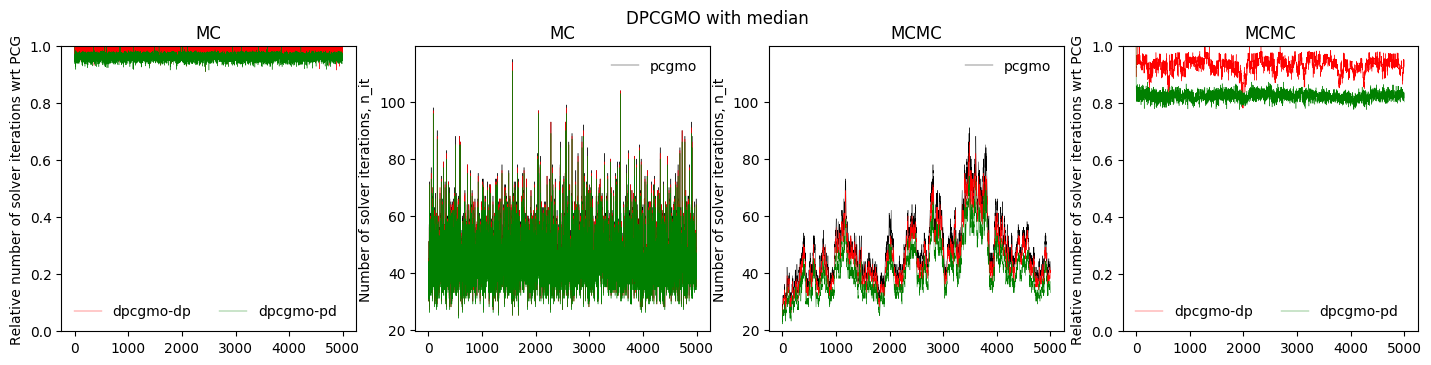
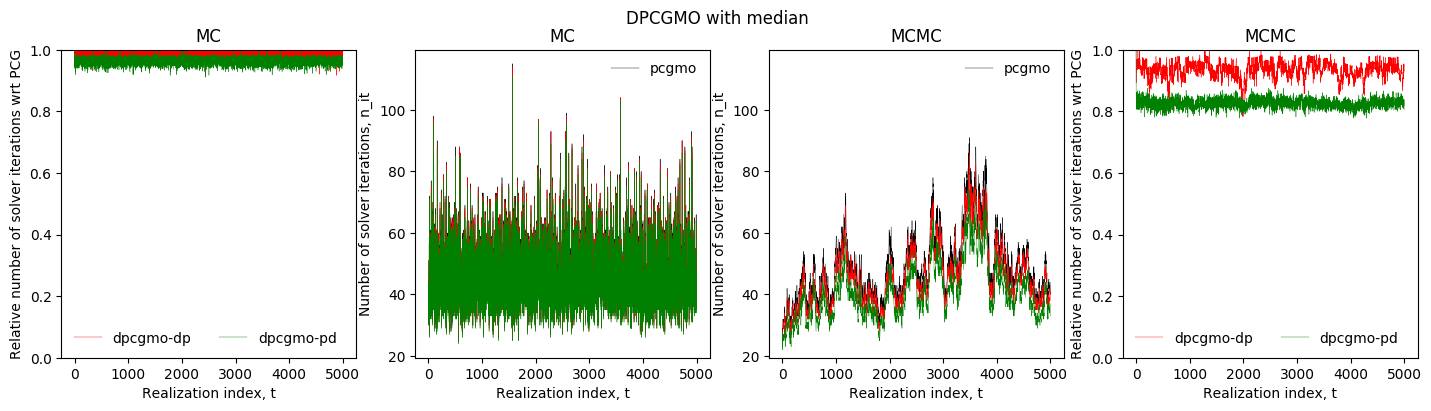
first-commit

diff --git a/examples/example06_recycler.py b/examples/example06_recycler.py
@@ -13,6 +13,7 @@ sig2, L = .357, 0.05
 model = "Exp"
 
 kl = 20
+case = "a" # {"a", "b"}
 
 smp, dpcg, dpcgmo = {}, {}, {}
 
@@ -24,14 +25,18 @@ for _smp in ("mc", "mcmc"):
   smp[_smp] = __smp
 
 pcg = solver(n=smp["mc"].n, solver_type="pcg")
-#pcg.set_precond(Mat=smp["mc"].get_median_A(), precond_id=3, nb=10)
-pcg.set_precond(Mat=smp["mc"].get_median_A(), precond_id=1)
+if (case == "a"):
+  pcg.set_precond(Mat=smp["mc"].get_median_A(), precond_id=3, nb=10)
+elif (case == "b"):
+  pcg.set_precond(Mat=smp["mc"].get_median_A(), precond_id=1)
 
 for __smp in ("mc", "mcmc"):
   for dp_seq in ("dp", "pd"):
       __dpcg = solver(n=smp["mc"].n, solver_type="dpcg")
-      #__dpcg.set_precond(Mat=smp["mc"].get_median_A(), precond_id=3, nb=10)
-      __dpcg.set_precond(Mat=smp["mc"].get_median_A(), precond_id=1)
+      if (case == "a"):
+        __dpcg.set_precond(Mat=smp["mc"].get_median_A(), precond_id=3, nb=10)
+      elif (case == "b"):
+        __dpcg.set_precond(Mat=smp["mc"].get_median_A(), precond_id=1)
       dpcg[(__smp, dp_seq)] = __dpcg
       dpcgmo[(__smp, dp_seq)] = recycler(smp[__smp], __dpcg, "dpcgmo", kl=kl, dp_seq=dp_seq)
 
@@ -77,51 +82,36 @@ while (smp["mcmc"].cnt_accepted_proposals < nsmp):
 
     print("%d/%d" %(smp["mcmc"].cnt_accepted_proposals+1, nsmp))
 
-fig, ax = pl.subplots(1, 2, figsize=(8.5,3.7), sharey=True)
+lw = 0.3
+fig, ax = pl.subplots(1, 4, figsize=(17.5,4.))
 ax[0].set_title("MC")
-ax[0].plot(pcgmo_it["mc"], lw=0.5, label="pcgmo")
-ax[0].plot(dpcgmo_it[("mc", "dp")], "-+", markersize=mrksize, label="dpcgmo-dp")
-ax[0].plot(dpcgmo_it[("mc", "pd")], lw=0.5, label="dpcgmo-pd")
-ax[1].set_title("MCMC")
-ax[1].plot(pcgmo_it["mcmc"], lw=0.5, label="pcgmo")
-ax[1].plot(dpcgmo_it[("mcmc", "dp")], "-+", markersize=mrksize, label="dpcgmo-dp")
-ax[1].plot(dpcgmo_it[("mcmc", "pd")], lw=0.5, label="dpcgmo-pd")
-ax[0].set_ylabel("Number of solver iterations, n_it")
-ax[0].set_xlabel("Realization index, t"); ax[1].set_xlabel("Realization index, t")
-#fig.suptitle("DPCGMO with median-bJ10")
-fig.suptitle("DPCGMO with median")
-ax[0].legend(frameon=False, ncol=2); ax[1].legend(frameon=False, ncol=2)
-#pl.show()
-#pl.savefig(figures_path+"example06_recycler_a.png", bbox_inches='tight')
-pl.savefig(figures_path+"example06_recycler_b.png", bbox_inches='tight')
-
-
-mrkr, mrksize = ".", 0.2
-fig, ax = pl.subplots(1, 4, figsize=(16,3.7))
-ax[0].set_title("MC")
-ax[0].plot(np.array(dpcgmo_it[("mc", "dp")])/np.array(pcgmo_it["mc"], dtype=float), "r"+mrkr, markersize=mrksize, label="dpcgmo-dp")
-ax[0].plot(np.array(dpcgmo_it[("mc", "pd")])/np.array(pcgmo_it["mc"], dtype=float), "g"+mrkr, markersize=mrksize, label="dpcgmo-pd")
+ax[0].plot(np.array(dpcgmo_it[("mc", "dp")])/np.array(pcgmo_it["mc"], dtype=float), "r", lw=lw, label="dpcgmo-dp")
+ax[0].plot(np.array(dpcgmo_it[("mc", "pd")])/np.array(pcgmo_it["mc"], dtype=float), "g", lw=lw, label="dpcgmo-pd")
 ax[1].set_title("MC")
-ax[1].plot(pcgmo_it["mc"], "k"+mrkr, markersize=mrksize, label="pcgmo")
-ax[1].plot(dpcgmo_it[("mc", "dp")], "r"+mrkr, markersize=mrksize)
-ax[1].plot(dpcgmo_it[("mc", "pd")], "g"+mrkr, markersize=mrksize)
+ax[1].plot(pcgmo_it["mc"], "k", lw=lw, label="pcgmo")
+ax[1].plot(dpcgmo_it[("mc", "dp")], "r", lw=lw)
+ax[1].plot(dpcgmo_it[("mc", "pd")], "g", lw=lw)
 ax[2].set_title("MCMC")
-ax[2].plot(pcgmo_it["mcmc"], "k"+mrkr, markersize=mrksize, label="pcgmo")
-ax[2].plot(dpcgmo_it[("mcmc", "dp")], "r"+mrkr, markersize=mrksize)
-ax[2].plot(dpcgmo_it[("mcmc", "pd")], "g"+mrkr, markersize=mrksize)
+ax[2].plot(pcgmo_it["mcmc"], "k", lw=lw, label="pcgmo")
+ax[2].plot(dpcgmo_it[("mcmc", "dp")], "r", lw=lw)
+ax[2].plot(dpcgmo_it[("mcmc", "pd")], "g", lw=lw)
 ax[3].set_title("MCMC")
-ax[3].plot(np.array(dpcgmo_it[("mcmc", "dp")])/np.array(pcgmo_it["mcmc"], dtype=float), "r"+mrkr, markersize=mrksize, label="dpcgmo-dp")
-ax[3].plot(np.array(dpcgmo_it[("mcmc", "pd")])/np.array(pcgmo_it["mcmc"], dtype=float), "g"+mrkr, markersize=mrksize, label="dpcgmo-pd")
+ax[3].plot(np.array(dpcgmo_it[("mcmc", "dp")])/np.array(pcgmo_it["mcmc"], dtype=float), "r", lw=lw, label="dpcgmo-dp")
+ax[3].plot(np.array(dpcgmo_it[("mcmc", "pd")])/np.array(pcgmo_it["mcmc"], dtype=float), "g", lw=lw, label="dpcgmo-pd")
 ax[0].set_ylim(0, 1); ax[3].set_ylim(0, 1)
 ax[2].set_ylim(ax[1].get_ylim())
 ax[0].set_ylabel("Relative number of solver iterations wrt PCG")
 ax[1].set_ylabel("Number of solver iterations, n_it")
 ax[2].set_ylabel("Number of solver iterations, n_it")
 ax[3].set_ylabel("Relative number of solver iterations wrt PCG")
-#fig.suptitle("DPCGMO with median-bJ10")
-fig.suptitle("DPCGMO with median")
+if (case == "a"):
+  fig.suptitle("DPCGMO with median-bJ10")
+elif (case == "b"):
+  fig.suptitle("DPCGMO with median")
 ax[0].legend(frameon=False, ncol=2); ax[1].legend(frameon=False)
 ax[2].legend(frameon=False); ax[3].legend(frameon=False, ncol=2)
 #pl.show()
-#pl.savefig(figures_path+"example06_recycler_a.png", bbox_inches='tight')
-pl.savefig(figures_path+"example06_recycler_b.png", bbox_inches='tight')
+if (case == "a"):
+  pl.savefig(figures_path+"example06_recycler_a.png", bbox_inches='tight')
+if (case == "b"):
+  pl.savefig(figures_path+"example06_recycler_b.png", bbox_inches='tight')

diff --git a/README.tex.md b/README.tex.md
@@ -533,18 +533,13 @@ Output :
 Solves the sequence $\{u(x;\theta_t)\}_{t=1}^M$ by DPCGMO for sequences $\{\kappa(x;\theta_t)\}_{t=1}^M$ sampled by MC and by MCMC. In both cases, a constant bJ preconditioner is used based on the median operator with 10 blocks. The effect of `dp_seq` is investigated on the number of solver iterations.
 
 ```python
-from samplers import sampler
-from solvers import solver
-from recyclers import recycler
-import pylab as pl
-import numpy as np
-
 nEl = 1000
-nsmp = 100
+nsmp = 5000
 sig2, L = .357, 0.05
 model = "Exp"
 
 kl = 20
+case = "a" # {"a", "b"}
 
 smp, dpcg, dpcgmo = {}, {}, {}
 
@@ -556,12 +551,18 @@ for _smp in ("mc", "mcmc"):
   smp[_smp] = __smp
 
 pcg = solver(n=smp["mc"].n, solver_type="pcg")
-pcg.set_precond(Mat=smp["mc"].get_median_A(), precond_id=3, nb=10)
+if (case == "a"):
+  pcg.set_precond(Mat=smp["mc"].get_median_A(), precond_id=3, nb=10)
+elif (case == "b"):
+  pcg.set_precond(Mat=smp["mc"].get_median_A(), precond_id=1)
 
 for __smp in ("mc", "mcmc"):
   for dp_seq in ("dp", "pd"):
       __dpcg = solver(n=smp["mc"].n, solver_type="dpcg")
-      __dpcg.set_precond(Mat=smp["mc"].get_median_A(), precond_id=3, nb=10)
+      if (case == "a"):
+        __dpcg.set_precond(Mat=smp["mc"].get_median_A(), precond_id=3, nb=10)
+      elif (case == "b"):
+        __dpcg.set_precond(Mat=smp["mc"].get_median_A(), precond_id=1)
       dpcg[(__smp, dp_seq)] = __dpcg
       dpcgmo[(__smp, dp_seq)] = recycler(smp[__smp], __dpcg, "dpcgmo", kl=kl, dp_seq=dp_seq)
 
@@ -607,19 +608,34 @@ while (smp["mcmc"].cnt_accepted_proposals < nsmp):
 
     print("%d/%d" %(smp["mcmc"].cnt_accepted_proposals+1, nsmp))
 
-fig, ax = pl.subplots(1, 2, figsize=(8.5,3.7), sharey=True)
+lw = 0.3
+fig, ax = pl.subplots(1, 4, figsize=(17.5,4.))
 ax[0].set_title("MC")
-ax[0].plot(pcgmo_it["mc"], label="pcgmo")
-ax[0].plot(dpcgmo_it[("mc", "dp")], "-+", label="dpcgmo-dp")
-ax[0].plot(dpcgmo_it[("mc", "pd")], label="dpcgmo-pd")
-ax[1].set_title("MCMC")
-ax[1].plot(pcgmo_it["mcmc"], label="pcgmo")
-ax[1].plot(dpcgmo_it[("mcmc", "dp")], "-+", label="dpcgmo-dp")
-ax[1].plot(dpcgmo_it[("mcmc", "pd")], label="dpcgmo-pd")
-ax[0].set_ylabel("Number of solver iterations, n_it")
-ax[0].set_xlabel("Realization index, t"); ax[1].set_xlabel("Realization index, t")
-fig.suptitle("DPCGMO")
-ax[0].legend(frameon=False, ncol=2); ax[1].legend(frameon=False, ncol=2)
+ax[0].plot(np.array(dpcgmo_it[("mc", "dp")])/np.array(pcgmo_it["mc"], dtype=float), "r", lw=lw, label="dpcgmo-dp")
+ax[0].plot(np.array(dpcgmo_it[("mc", "pd")])/np.array(pcgmo_it["mc"], dtype=float), "g", lw=lw, label="dpcgmo-pd")
+ax[1].set_title("MC")
+ax[1].plot(pcgmo_it["mc"], "k", lw=lw, label="pcgmo")
+ax[1].plot(dpcgmo_it[("mc", "dp")], "r", lw=lw)
+ax[1].plot(dpcgmo_it[("mc", "pd")], "g", lw=lw)
+ax[2].set_title("MCMC")
+ax[2].plot(pcgmo_it["mcmc"], "k", lw=lw, label="pcgmo")
+ax[2].plot(dpcgmo_it[("mcmc", "dp")], "r", lw=lw)
+ax[2].plot(dpcgmo_it[("mcmc", "pd")], "g", lw=lw)
+ax[3].set_title("MCMC")
+ax[3].plot(np.array(dpcgmo_it[("mcmc", "dp")])/np.array(pcgmo_it["mcmc"], dtype=float), "r", lw=lw, label="dpcgmo-dp")
+ax[3].plot(np.array(dpcgmo_it[("mcmc", "pd")])/np.array(pcgmo_it["mcmc"], dtype=float), "g", lw=lw, label="dpcgmo-pd")
+ax[0].set_ylim(0, 1); ax[3].set_ylim(0, 1)
+ax[2].set_ylim(ax[1].get_ylim())
+ax[0].set_ylabel("Relative number of solver iterations wrt PCG")
+ax[1].set_ylabel("Number of solver iterations, n_it")
+ax[2].set_ylabel("Number of solver iterations, n_it")
+ax[3].set_ylabel("Relative number of solver iterations wrt PCG")
+if (case == "a"):
+  fig.suptitle("DPCGMO with median-bJ10")
+elif (case == "b"):
+  fig.suptitle("DPCGMO with median")
+ax[0].legend(frameon=False, ncol=2); ax[1].legend(frameon=False)
+ax[2].legend(frameon=False); ax[3].legend(frameon=False, ncol=2)
 pl.show()
 ```
 
